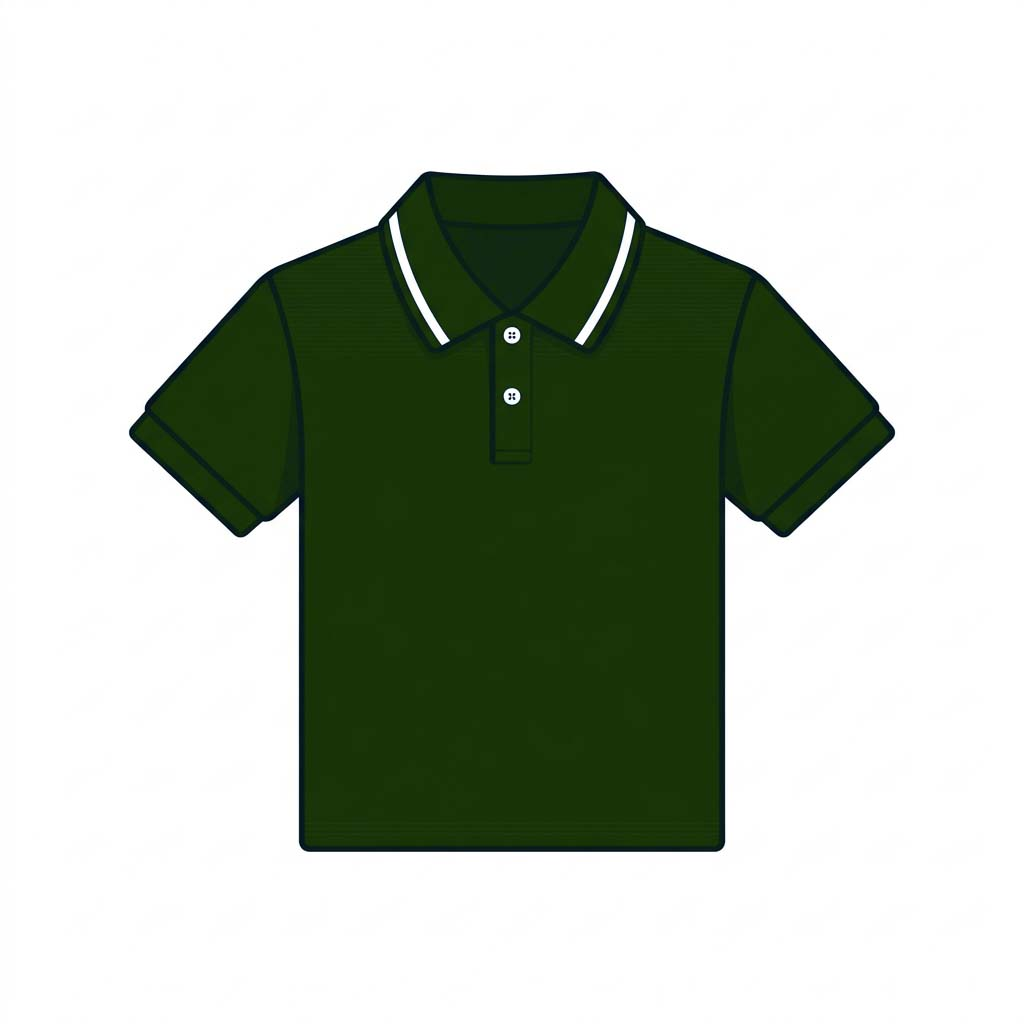
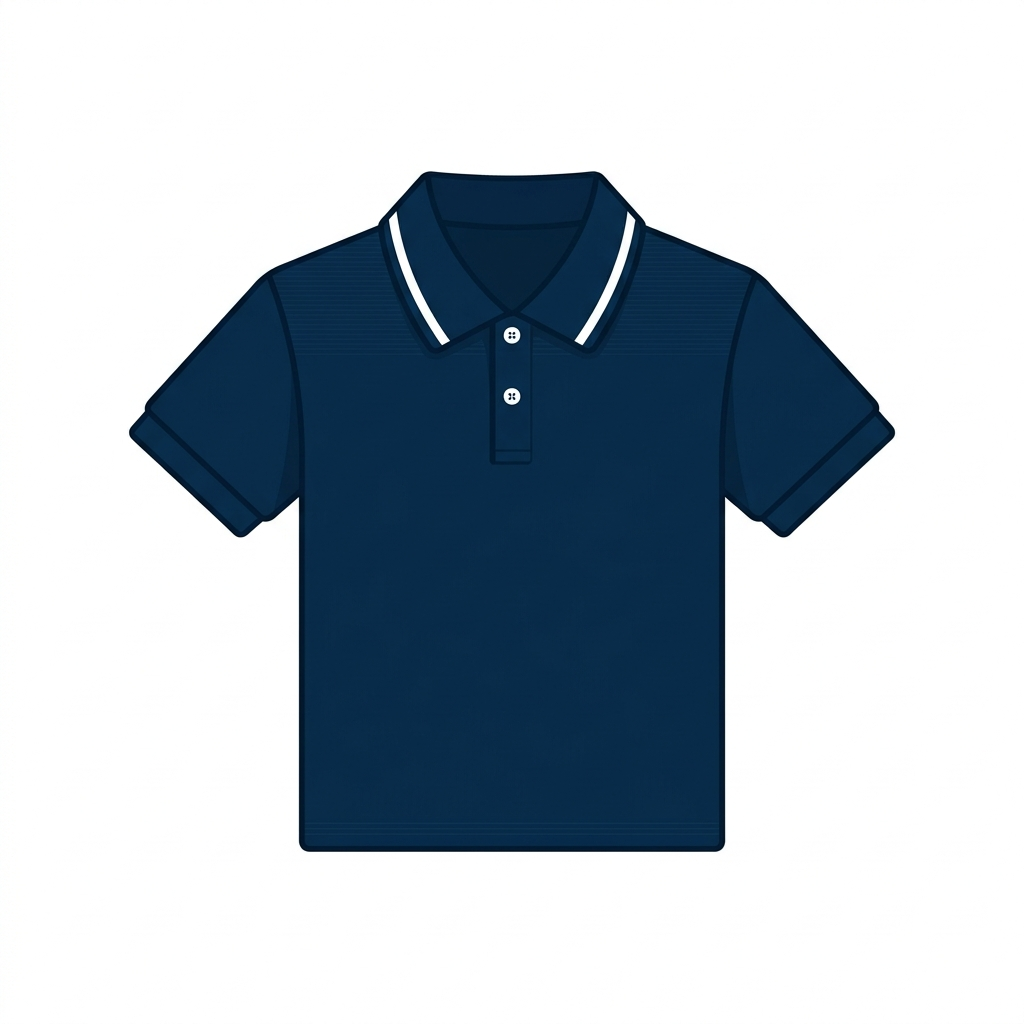
push

diff --git a/src/components/EventGuidelines.tsx b/src/components/EventGuidelines.tsx
@@ -3,7 +3,7 @@
 import React from "react";
 import Image from "next/image";
 import { motion } from "framer-motion";
-import { Shirt, Briefcase, Info, Laptop, Badge } from "lucide-react";
+import { Shirt, Briefcase, Info, Laptop, Badge, IdCardLanyard } from "lucide-react";
 
 export default function EventGuidelines() {
     return (
@@ -28,13 +28,13 @@ export default function EventGuidelines() {
                         transition={{ delay: 0.1 }}
                         className="text-3xl sm:text-5xl font-bebas text-brand-blue-dark tracking-wide uppercase mt-2 text-shadow-soft"
                     >
-                        Event Guidelines
+                        Event Essentials
                     </motion.h3>
                     <div className="w-12 h-1 bg-brand-orange mt-4 rounded-full" />
                 </div>
 
                 <div className="flex flex-col gap-12">
-                    {/* Dresscode Section */}
+                    {/* Event Essentials Section */}
                     <motion.div
                         initial={{ opacity: 0, y: 30 }}
                         whileInView={{ opacity: 1, y: 0 }}
@@ -43,118 +43,83 @@ export default function EventGuidelines() {
                     >
                         <div className="absolute top-0 right-0 w-[500px] h-[500px] bg-brand-orange/5 rounded-full blur-[80px] pointer-events-none translate-x-1/3 -translate-y-1/3" />
 
-                        <div className="flex flex-col items-center text-center mb-12 relative z-10">
-                            <div className="w-16 h-16 rounded-2xl bg-brand-orange/10 flex items-center justify-center mb-6 shadow-inner">
-                                <Shirt className="w-8 h-8 text-brand-orange" />
-                            </div>
-                            <h4 className="text-3xl sm:text-4xl font-bebas text-brand-blue-dark tracking-wide">
-                                Dresscode
-                            </h4>
-                            <p className="text-brand-text-muted mt-3 max-w-xl mx-auto">
-                                Please ensure you wear the designated attire for each day of the event to maintain our shared identity and professionalism.
-                            </p>
-                        </div>
 
                         <div className="grid grid-cols-1 md:grid-cols-3 gap-6 lg:gap-8 relative z-10">
-                            {/* Day 1 */}
-                            <div className="bg-brand-white rounded-3xl p-6 sm:p-8 border border-brand-blue-light/10 shadow-sm hover:shadow-xl hover:shadow-brand-blue/5 transition-all duration-300 relative group flex flex-col h-full">
+                            {/* Left: Dress Code */}
+                            <div className="bg-brand-white rounded-3xl p-6 sm:p-8 border border-brand-blue-light/10 shadow-sm hover:shadow-xl hover:shadow-brand-blue/5 transition-all duration-300 flex flex-col h-full group">
+                                <h5 className="font-bold text-brand-text-dark text-xl mb-6">Dress Code</h5>
+                                <div className="flex flex-col gap-6 flex-1">
+                                    {/* Day 1 */}
+                                    <div className="flex items-center gap-4 group/item">
+                                        <div className="relative w-20 h-20 sm:w-24 sm:h-24 rounded-xl overflow-hidden bg-white shrink-0 border border-brand-blue-light/10 shadow-sm group-hover/item:shadow-md transition-all">
+                                            <Image
+                                                src="/images/batik_3d_white.png"
+                                                alt="Batik"
+                                                fill
+                                                className="object-contain p-2 group-hover/item:scale-110 transition-transform duration-300"
+                                            />
+                                        </div>
+                                        <div className="flex flex-col">
+                                            <span className="font-bold text-brand-text-dark text-lg">Day 1</span>
+                                            <span className="text-brand-text-muted">Batik</span>
+                                        </div>
+                                    </div>
 
-                                <h5 className="font-bold text-brand-text-dark text-lg uppercase tracking-wider mb-1">Day 1</h5>
-                                <p className="text-brand-text-muted font-medium mb-6">Batik</p>
-                                <div className="relative w-full flex-1 min-h-[220px] rounded-2xl overflow-hidden flex items-end justify-center bg-gradient-to-b from-brand-orange/5 via-brand-cream to-brand-orange/20">
-                                    <div className="relative w-full h-full">
-                                        <Image
-                                            src="/images/batik.png"
-                                            alt="Batik Shirt"
-                                            fill
-                                            className="object-contain transition-transform duration-500 group-hover:scale-110 origin-bottom"
-                                        />
+                                    {/* Day 2 */}
+                                    <div className="flex items-center gap-4 group/item">
+                                        <div className="relative w-20 h-20 sm:w-24 sm:h-24 rounded-xl overflow-hidden bg-white shrink-0 border border-brand-blue-light/10 shadow-sm group-hover/item:shadow-md transition-all">
+                                            <Image
+                                                src="/images/baju raker SLH.png"
+                                                alt="SLH Leaders Shirt"
+                                                fill
+                                                className="object-contain p-2 group-hover/item:scale-110 transition-transform duration-300"
+                                            />
+                                        </div>
+                                        <div className="flex flex-col">
+                                            <span className="font-bold text-brand-text-dark text-lg">Day 2</span>
+                                            <span className="text-brand-text-muted leading-tight">SLH Leaders Shirt</span>
+                                            <span className="text-xs text-brand-blue-light italic mt-1">(to be provided)</span>
+                                        </div>
+                                    </div>
+
+                                    {/* Day 3 */}
+                                    <div className="flex items-center gap-4 group/item">
+                                        <div className="relative w-20 h-20 sm:w-24 sm:h-24 rounded-xl overflow-hidden bg-white shrink-0 border border-brand-blue-light/10 shadow-sm group-hover/item:shadow-md transition-all">
+                                            <Image
+                                                src="/images/smart_casual.png"
+                                                alt="Smart Casual"
+                                                fill
+                                                className="object-contain p-2 group-hover/item:scale-110 transition-transform duration-300"
+                                            />
+                                        </div>
+                                        <div className="flex flex-col">
+                                            <span className="font-bold text-brand-text-dark text-lg">Day 3</span>
+                                            <span className="text-brand-text-muted">Smart Casual</span>
+                                        </div>
                                     </div>
                                 </div>
                             </div>
 
-                            {/* Day 2 */}
-                            <div className="bg-brand-white rounded-3xl p-6 sm:p-8 border border-brand-blue-light/10 shadow-sm hover:shadow-xl hover:shadow-brand-blue/5 transition-all duration-300 relative group flex flex-col h-full">
-
-                                <h5 className="font-bold text-brand-text-dark text-lg uppercase tracking-wider mb-1">Day 2</h5>
-                                <p className="text-brand-text-muted font-medium mb-6">Raker shirt <span className="block text-sm text-brand-blue-light font-normal italic mt-1">(will be provided)</span></p>
-                                <div className="relative w-full flex-1 min-h-[220px] rounded-2xl overflow-hidden flex items-end justify-center bg-gradient-to-b from-brand-blue-light/5 via-brand-cream to-brand-blue-light/20">
-                                    <div className="relative w-full h-full">
-                                        <Image
-                                            src="/images/raker-shirt.png"
-                                            alt="Raker Polo Shirt"
-                                            fill
-                                            className="object-contain transition-transform duration-500 group-hover:scale-110 origin-bottom"
-                                        />
-                                    </div>
+                            {/* Mid: Lanyard */}
+                            <div className="bg-brand-white rounded-3xl p-6 sm:p-8 border border-brand-blue-light/10 shadow-sm hover:shadow-xl hover:shadow-brand-blue/5 transition-all duration-300 flex flex-col h-full group">
+                                <div className="w-16 h-16 rounded-2xl bg-brand-blue-light/10 flex items-center justify-center mb-6 group-hover:bg-brand-blue-light transition-colors">
+                                    <IdCardLanyard className="w-8 h-8 text-brand-blue-light group-hover:text-brand-white transition-colors" />
                                 </div>
-                            </div>
-
-                            {/* Day 3 */}
-                            <div className="bg-brand-white rounded-3xl p-6 sm:p-8 border border-brand-blue-light/10 shadow-sm hover:shadow-xl hover:shadow-brand-blue/5 transition-all duration-300 relative group flex flex-col h-full">
-
-                                <h5 className="font-bold text-brand-text-dark text-lg uppercase tracking-wider mb-1">Day 3</h5>
-                                <p className="text-brand-text-muted font-medium mb-6">Smart Casual</p>
-                                <div className="relative w-full flex-1 min-h-[220px] rounded-2xl overflow-hidden flex items-end justify-center bg-gradient-to-b from-brand-yellow/5 via-brand-cream to-brand-yellow/20">
-                                    <div className="relative w-full h-full">
-                                        <Image
-                                            src="/images/smart-casual.png"
-                                            alt="Smart Casual Outfit"
-                                            fill
-                                            className="object-contain transition-transform duration-500 group-hover:scale-110 origin-bottom"
-                                        />
-                                    </div>
-                                </div>
-                            </div>
-                        </div>
-                    </motion.div>
-
-                    {/* To Bring Section */}
-                    <motion.div
-                        initial={{ opacity: 0, y: 30 }}
-                        whileInView={{ opacity: 1, y: 0 }}
-                        viewport={{ once: true }}
-                        className="bg-brand-blue-dark/5 backdrop-blur-sm border border-brand-blue-light/10 p-8 sm:p-12 rounded-[2.5rem] shadow-sm relative overflow-hidden"
-                    >
-                        <div className="absolute bottom-0 left-0 w-[400px] h-[400px] bg-brand-blue-light/10 rounded-full blur-[80px] pointer-events-none -translate-x-1/3 translate-y-1/3" />
-
-                        <div className="flex flex-col md:flex-row items-start md:items-center gap-8 relative z-10">
-                            <div className="md:w-1/3 flex flex-col items-start">
-                                <div className="w-16 h-16 rounded-2xl bg-brand-blue-light/10 flex items-center justify-center mb-6 shadow-inner">
-                                    <Briefcase className="w-8 h-8 text-brand-blue" />
-                                </div>
-                                <h4 className="text-3xl sm:text-4xl font-bebas text-brand-blue-dark tracking-wide mb-3">
-                                    What to Bring
-                                </h4>
-                                <p className="text-brand-text-muted">
-                                    Make sure you have these essentials with you throughout the meeting.
+                                <h5 className="font-bold text-brand-text-dark text-xl mb-4">Lanyard</h5>
+                                <p className="text-brand-text-muted leading-relaxed">
+                                    To be worn throughout the duration of the event. Lanyards will be provided for newly appointed leaders from non-SDH.
                                 </p>
                             </div>
 
-                            <div className="md:w-2/3 grid grid-cols-1 sm:grid-cols-2 gap-6 w-full">
-                                <div className="flex flex-col gap-4 p-6 sm:p-8 bg-brand-white rounded-3xl border border-brand-blue-light/5 shadow-sm hover:shadow-md transition-shadow group">
-                                    <div className="w-12 h-12 rounded-full bg-brand-orange/10 flex items-center justify-center group-hover:bg-brand-orange transition-colors">
-                                        <Badge className="w-6 h-6 text-brand-orange group-hover:text-brand-white transition-colors" />
-                                    </div>
-                                    <div>
-                                        <h5 className="font-bold text-brand-text-dark text-lg mb-2">Lanyard</h5>
-                                        <p className="text-brand-text-muted text-sm leading-relaxed">
-                                            Please bring your lanyard. For those who have not had one, it will be provided.
-                                        </p>
-                                    </div>
+                            {/* Right: Laptop */}
+                            <div className="bg-brand-white rounded-3xl p-6 sm:p-8 border border-brand-blue-light/10 shadow-sm hover:shadow-xl hover:shadow-brand-blue/5 transition-all duration-300 flex flex-col h-full group">
+                                <div className="w-16 h-16 rounded-2xl bg-brand-blue/10 flex items-center justify-center mb-6 group-hover:bg-brand-blue transition-colors">
+                                    <Laptop className="w-8 h-8 text-brand-blue group-hover:text-brand-white transition-colors" />
                                 </div>
-
-                                <div className="flex flex-col gap-4 p-6 sm:p-8 bg-brand-white rounded-3xl border border-brand-blue-light/5 shadow-sm hover:shadow-md transition-shadow group">
-                                    <div className="w-12 h-12 rounded-full bg-brand-blue-light/10 flex items-center justify-center group-hover:bg-brand-blue-light transition-colors">
-                                        <Laptop className="w-6 h-6 text-brand-blue-light group-hover:text-brand-white transition-colors" />
-                                    </div>
-                                    <div>
-                                        <h5 className="font-bold text-brand-text-dark text-lg mb-2">Laptop</h5>
-                                        <p className="text-brand-text-muted text-sm leading-relaxed">
-                                            Required for the workshops and panel discussions.
-                                        </p>
-                                    </div>
-                                </div>
+                                <h5 className="font-bold text-brand-text-dark text-xl mb-4">Laptop</h5>
+                                <p className="text-brand-text-muted leading-relaxed">
+                                    Required for workshops and panel discussions.
+                                </p>
                             </div>
                         </div>
                     </motion.div>

diff --git a/src/components/Invitation.tsx b/src/components/Invitation.tsx
@@ -95,26 +95,9 @@ export default function Invitation() {
               </div>
             </div>
 
-            {/* Dashed Line Separator for Light Theme */}
-            <div className="hidden md:flex flex-col items-center justify-center relative w-12 bg-white/40 border-l border-r border-brand-blue-light/5">
-              <div className="absolute -top-6 w-12 h-12 bg-brand-white rounded-full shadow-inner" />
-              <div className="h-full w-px border-l-2 border-dashed border-brand-blue-light/20" />
-              <div className="absolute -bottom-6 w-12 h-12 bg-brand-white rounded-full shadow-inner" />
-            </div>
 
-            {/* Right Side: Stay Tuned */}
-            <div className="md:w-1/3 p-8 sm:p-10 flex flex-col justify-center items-center text-center bg-gradient-to-bl from-brand-yellow-bright/10 to-transparent">
-              <div className="w-20 h-20 rounded-full bg-white border border-brand-yellow/30 shadow-sm flex items-center justify-center mb-6 group-hover:scale-110 group-hover:shadow-md transition-all duration-500">
-                <Clock className="w-8 h-8 text-brand-orange" />
-              </div>
-              <h4 className="text-2xl font-bebas tracking-wide text-brand-blue-dark mb-4">
-                Details<br />Coming Soon
-              </h4>
-              <button className="inline-flex items-center gap-2 text-sm font-bold uppercase tracking-widest text-brand-blue hover:text-brand-orange transition-colors duration-300">
-                Stay Tuned
-                <ArrowRight className="w-4 h-4 group-hover:translate-x-1 transition-transform" />
-              </button>
-            </div>
+
+
 
           </div>
         </motion.div>

diff --git a/src/components/Rundown.tsx b/src/components/Rundown.tsx
@@ -153,7 +153,7 @@ const day2Sessions: Session[] = [
     title: "Fragile, Fallen, and Held — The Leader Who Needs Grace (2 Corinthians 12:9-10)",
     people: [
       {
-        name: "Pdt. Dedy Panggabean",
+        name: "Dedy Panggabean",
         role: "Preacher"
       }
     ],